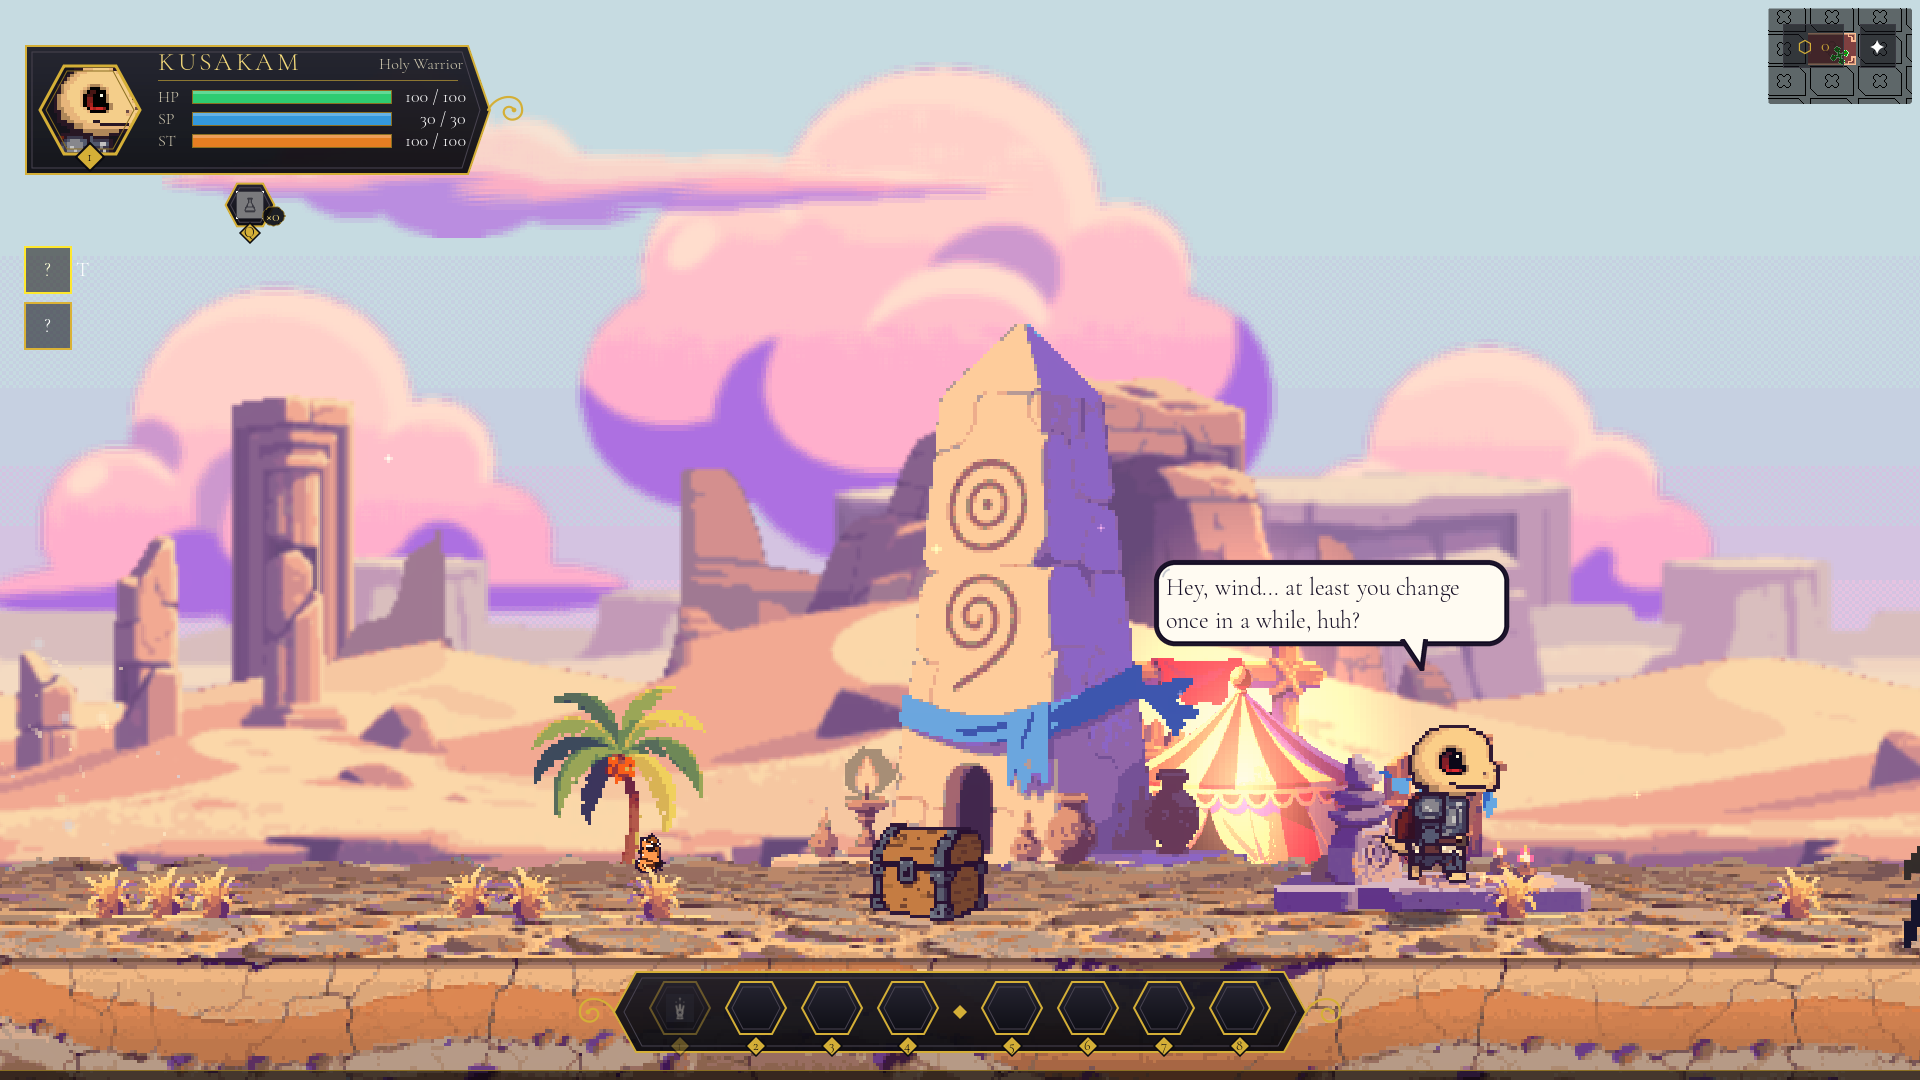
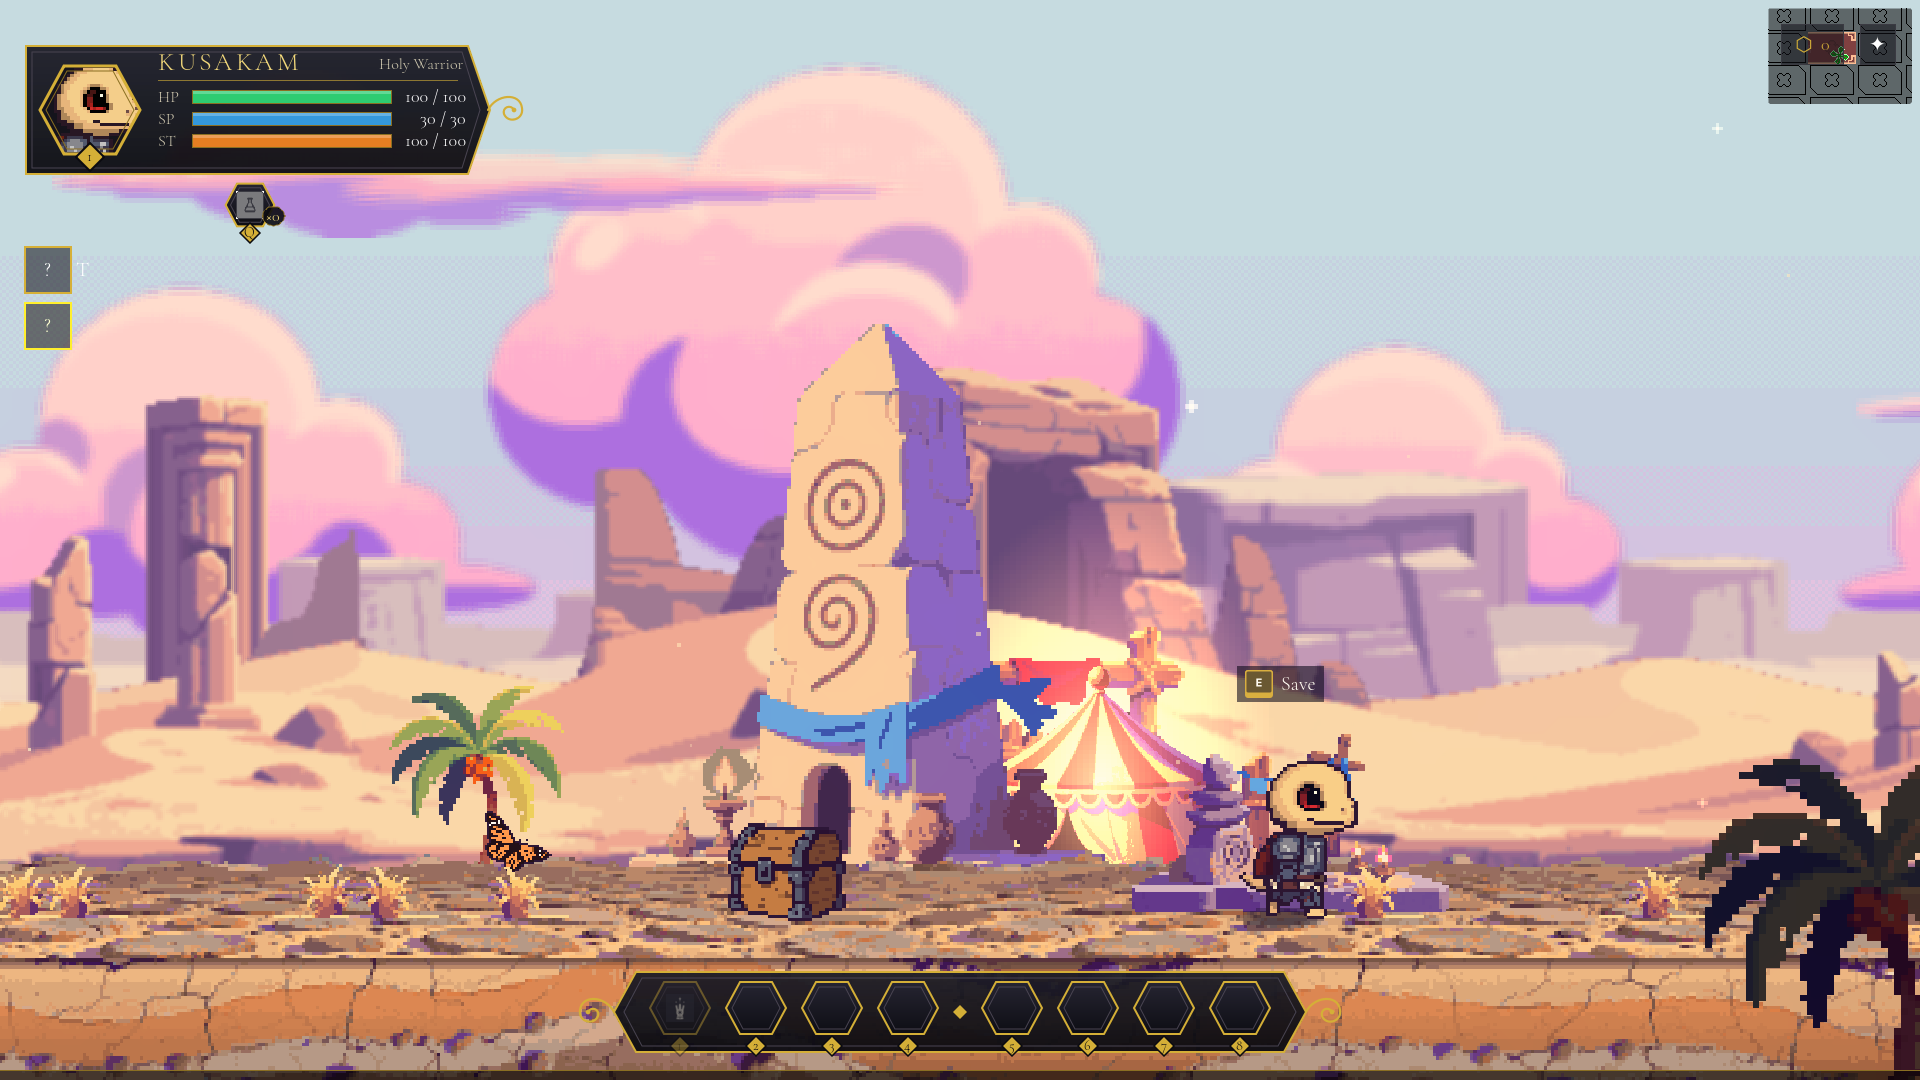
ui-bugs-205-206 report; the_map and saving tutorial shots re-shot without the debug label and the stale line
Claude-Session: https://claude.ai/code/session_01A2gnDWaoeJGbj3GPH4dnCF

diff --git a/design/cloud_reports/ui-bugs-205-206.md b/design/cloud_reports/ui-bugs-205-206.md
@@ -1,0 +1,81 @@
+---
+type: report
+branch: cloud/ui-bugs-205-206
+base: feature/backlog @ 3d7af74c
+date: 2026-10-28
+---
+
+# cloud/ui-bugs-205-206: the M map's sample debug UI, the Canyon line that rode into DesertRoad
+
+**Done:** B205 and B206 are fixed at the root, each with a new test that fails without the fix. The tutorial shots
+`the_map.png` and `saving.png` are re-shot. **Not done:** nothing in scope.
+**B rows fixed:** B205, B206 (delete both from [[BUGS]]).
+**D-ID text (own call, number is the orchestrator's):** «The in-game M map (`Game.tscn` `UI/MapWindow`) shows the
+MetSys grid only: no exploration counter and no extra keys. Exploration progress is shown where it is real, per location
+on the World Map card (D458: "Explored N% · Chests · Secrets"). A whole-world percentage is not added: the world is
+locations (D565), and a counter over every MetSys cell would count rooms the demo never opens.»
+**Full suite:** `SUITE: 4 FAIL in 20 min 49 s, J=4`. None are from this branch: `verify_difficulty` (17) and
+`verify_lab_boss` (2, balance) fail the same on `origin/feature/backlog`; `verify_mayor_hall` (hung) and
+`verify_camera_rooms` (1) pass when re-run alone on this branch.
+
+## B205: the MetSys sample's debug UI on the M map
+
+`SampleProject/Game.tscn` `UI/MapWindow` was the MetSys sample's window. Three sample-only parts sat on it:
+the `Label` «Press D to toggle delta vector», the `Percent` label (`"%03d%%"` of `MetSys.get_explored_ratio()`, which
+showed «0%» before the first update and «001%» after) and `TopDraw`, which drew the "delta vector" arrow from the last
+save point. D toggled it, and D is also `move_right` in the game.
+
+Removed (the real map stays: M opens and closes it, arrows pan it, the hero is paused while it is open):
+- `Game.tscn`: the `Percent`, `Label` and `TopDraw` nodes, the `PercentLabel` script, the label's `StyleBoxFlat`,
+  the `TopDraw.draw` connection, and from the `MapWindow` script the D branch, `_on_top_draw()`,
+  `reset_starting_coords()`, `show_delta` and `starting_coords` (`offset` is now local to `update_offset()`).
+- Its callers: `Game.reset_map_starting_coords()` and its call in `Game._ready()` (`Game.gd`), `Portal.gd`, `SavePoint.gd`.
+- The dead msgid «Press D to toggle delta vector» from `en.po` and `uk.po`.
+
+The World Map tab (D458) never used any of it. `verify_world_map` and `verify_game_menu` pass.
+
+Test: `verify_world_map.gd` [19]. The map window has no `Label`, no `TopDraw` / `Percent`, no `show_delta` and no
+`reset_starting_coords`. M opens it with its MapView, D changes nothing, and M closes it and frees the hero.
+
+## B206: «Hey, wind…» stayed on after a room change
+
+The layer is the **monologue speech bubble** (D178 / D737), not the D110 dialogue window. `Canyon_Intro.dqd` has
+only KUSAKAM lines, so `DialogueManager.start_dialogue()` plays it with `_play_bubbles()`, which adds the bubble as a
+**child of the Player**. The Player lives in `Game.tscn` and outlives the room, so `Game.load_room()` swapped the
+Canyon for DesertRoad with the bubble still on the hero. Its line timer is not `process_always`, so it also waited out
+the black screen. The capture script changes rooms in the middle of the intro, which is how the line got into `saving.png`.
+
+Fix (`SampleProject/Scripts/Systems/DialogueManager.gd`):
+- `_play_bubbles()` connects `Game.room_swapping` to `bubble.queue_free` (one-shot). The room that started the
+  monologue is going, so its bubble goes with it. A freed bubble drops this connection on its own, so a monologue that
+  ended normally does not touch the next room change.
+- `_on_bubble_gone()` was already the reset for "the scene went in the middle of a monologue". It clears
+  `_bubble_playing`, the cloud-talk flag, the queue and the pending triggers. It now also frees the hero
+  (`_unpause_player_after_dialogue()`): after a room change he is still in the game, and the D737 hold has to end.
+
+The cloud talks the cutscenes play (`Canyon_AbductionCutscene`, `in_cloud`) are awaited before their teleports, so
+the swap cannot cut them off. NPC barks (`say_in_passing`) hang on NPCs, so they leave with the room already.
+
+Test: `verify_dialogue_triggers.gd` [5]. The Canyon intro plays in a bubble, then `game.load_room(DesertRoad)`.
+After the change there is no bubble on the hero, the dialogue manager is free, and the hero is free. The next monologue
+plays and ends normally. Without the fix: `RESULT:4 FAIL` (no bubble / monologue over / hero free / ends normally).
+
+## Shots
+
+`design/shots/ui_bugs_205_206_before_after.png`: top, the M map before (label and «001%») and after; bottom,
+DesertRoad at the save point before (the Canyon line on the hero) and after (the Save prompt shows). The after images
+are now the committed `SampleProject/Assets/UI/Tutorial/the_map.png` and `saving.png`. They come from
+`capture_tutorial_shots.gd` (xvfb, 1920×1080, Godot 4.6.2 Linux). That script re-shot `basic_controls.png` and
+`journal.png` too, but those two were put back unchanged.
+
+## Tests
+
+| Test | Result |
+|---|---|
+| verify_world_map | `RESULT: ALL PASS` (new [19]) |
+| verify_dialogue_triggers | `RESULT:ALL PASS` (new [5]); without the fix `RESULT:4 FAIL` |
+| verify_game_menu | `RESULT: ALL PASS` |
+| verify_npc_chatter | `RESULT: ALL PASS` |
+| verify_scripts_compile | `RESULT: ALL PASS` |
+| verify_camera_transitions | first run `1 FAIL` ("reaching the right limit it slows down… biggest one-frame drop 6.75 px", one skipped frame), then `ALL PASS` on re-run; also `ALL PASS` twice on the base, and `PASS` in the full suite |
+| full suite | `SUITE: 4 FAIL in 20 min 49 s, J=4`. `verify_difficulty` 17 FAIL and `verify_lab_boss` 2 FAIL: the same on `origin/feature/backlog`. `verify_mayor_hall` (HUNG at 180 s) and `verify_camera_rooms` (1 FAIL): `PASS` alone on this branch (47 s, 290 s) |
